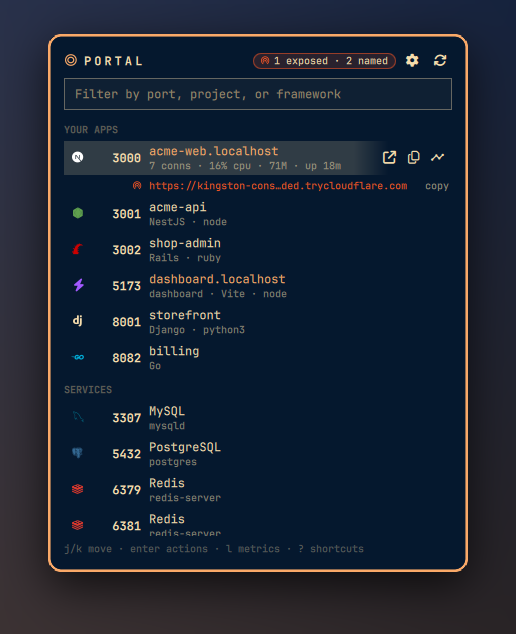
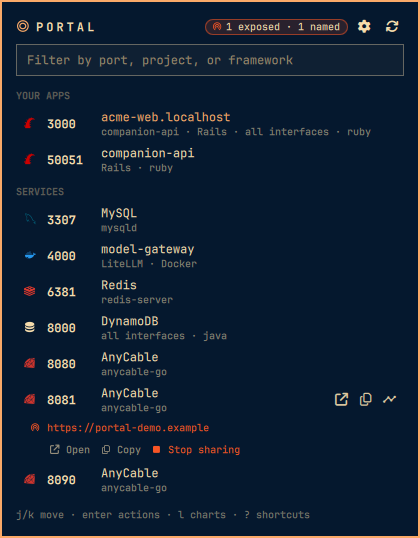
chore(portal): prepare directory review

diff --git a/PortalPanel.qml b/PortalPanel.qml
@@ -516,12 +516,7 @@ Panel {
   }
 
   function activateVerbById(entry, id) {
-    if (id === "share" && entry && service && service.publicTunnelFor(entry.port)) {
-      activateVerb(entry, { id: id })
-      return
-    }
-    var vs = verbsFor(entry)
-    for (var i = 0; i < vs.length; i++) if (vs[i].id === id) { activateVerb(entry, vs[i]); return }
+    activateVerb(entry, { id: id })
   }
 
   function activateVerbAtCursor() {
@@ -1342,7 +1337,7 @@ Panel {
                     { k: "l  ·  h / esc", d: "charts · back" },
                     { k: "type  or  /", d: "filter the list" },
                     { k: "o  ·  c", d: "open in browser · copy URL" },
-                    { k: "n  ·  s", d: "local name · share / stop sharing" },
+                    { k: "n  ·  s", d: "name · toggle sharing" },
                     { k: "w", d: "watch — persist metrics to disk" },
                     { k: "p  ·  r", d: "pause / resume · restart (dev)" },
                     { k: "x  ·  R", d: "stop process · rescan now" },

diff --git a/docs/submission.md b/docs/submission.md
@@ -1,0 +1,56 @@
+# Directory review notes
+
+The original [Portal submission](https://github.com/omacom/omarchy-plugin-marketplace/issues/4308)
+is still open. Its last maintainer review evaluated `d15f73b`. The changes below
+are present in merged commit `ad9ac95`, with documentation and action-dispatch
+cleanup on top. Ask the directory to validate the final published commit.
+
+## Previous review points
+
+| Review point | Current implementation | Repeatable checks |
+|---|---|---|
+| State file path swaps and durability | `scripts/lib/statedir.py` walks verified directories, opens leaves with no-follow checks, and publishes exclusive temporary files with descriptor-relative rename and fsync. `files.sh` delegates state operations to it. | `bash test/scripts.test.sh`, `bash test/state-mode.test.sh`, `bash test/state-inspect.test.sh` |
+| Certificate bytes changing between verification and import | `portless-setup.sh` snapshots the CA into `CA_PEM`, verifies the proxy certificate against those bytes, then verifies the opened import descriptor's fingerprint before passing that descriptor to certutil. Trust records support removal without deleting a replacement certificate. | `bash test/portless-trust.test.sh`, `bash test/scripts.test.sh` |
+| Unbounded QML subprocess output | `Service.runScript` uses `proc.py run` with an output ceiling and deadline. The supervisor discards incomplete output and terminates the process group and reaps its child. The scanner separately caps fields and rejects more than 512 listener ports. | `bash test/scripts.test.sh`, `bash test/proc-cancel.test.sh`, `bash test/lifecycle-cap.test.sh` |
+| Stale process identity during lifecycle actions | The scan carries PID and kernel start time. Lifecycle actions recheck exclusive port ownership and signal through a pidfd. Restart validates captured argv, environment, and the replacement listener's session. | `bash test/lifecycle-owner.test.sh`, `bash test/restart-boundaries.test.sh`, `bash test/restart-env.test.sh`, `bash test/restart-deadline.test.sh` |
+| Installing through replaceable paths | The Cloudflared installer checks the pinned digest and ELF header through an opened download descriptor. `state create` publishes into the verified destination directory and refuses an existing target. | `bash test/provider-install.test.sh` |
+| Restart argument transport and mutable CI inputs | Restart uses JSON and NUL-separated arguments. CI pins checkout and the Omarchy revision and verifies the downloaded font archive's SHA-256. | `bash test/restart-effect.test.sh`, `bash test/restart-duplicate-env.test.sh`, `.github/workflows/ci.yml` |
+
+These references document how the earlier findings were addressed. They are
+not a security certification. A fresh deep security scan was attempted during
+this preparation round but did not start because its worker required a managed
+filesystem permission profile. That review remains outstanding.
+
+## Corrections to the original submission
+
+- Portal does not run npm or another package manager. Missing Portless setup
+  displays `npm install -g portless` for the user to run.
+- Setup and sharing ask for confirmation in an overlay. Provider setup lives
+  in Settings. Local proxies use port 1355 without sudo by default.
+- The Cloudflared download is not executed to discover its version. The
+  installer reports the release version pinned with its checksums.
+- Runtime requirements include system Python 3 and SQLite. Browser trust also
+  needs certutil and OpenSSL. See the [complete requirements](guide.md#requirements).
+- Watched history uses SQLite and retains up to 48 hours. Unwatching pauses
+  recording and preserves history. There is no legacy storage migration.
+- The repository has multiple reviewed commits. It no longer uses the original
+  single-commit submission history.
+
+## Resubmission material
+
+The root manifest, MIT license, README install and removal commands, preview,
+and guide are present. The guide explains network requests, optional providers,
+process controls, browser trust, and state storage. Screenshot project names and
+public URLs use examples instead of local details.
+
+Run the full gate from the final checkout before requesting another review:
+
+```sh
+omarchy plugin validate "$PWD"
+bash test/test.sh
+bash test/e2e-live.sh
+```
+
+The live suite uses temporary listeners. It checks fixture identity before
+teardown. UI changes additionally require the installed proof described in
+[the contributor guide](../AGENTS.md#installed-plugin-proof).

diff --git a/docs/guide.md b/docs/guide.md
@@ -1,5 +1,8 @@
 # Portal guide
 
+Screenshots show the installed plugin. Example names and public URLs replace
+local project details.
+
 ## The list
 
 <img src="images/list.png" width="480" alt="The port list">
@@ -35,7 +38,8 @@ without changing their bytes. It waits for the original process to exit before
 relaunching and verifies that every listener belongs to the replacement session.
 Startup uses the remaining restart deadline, with time reserved for cleanup if
 the replacement fails to listen.
-A server started through mise, nvm, or a shell hook uses the same launcher.
+Restart preserves the environment captured from the original process. It does
+not rerun shell startup files or version-manager hooks.
 Signals only go to processes you own. Stop, pause, and restart ask first and
 name the process. Resume never asks. Naming and sharing actions appear only
 when their provider tools are available. Keyboard shortcuts follow the same
@@ -105,8 +109,7 @@ and is unavailable without connections. It does not measure database queries or
 WebSocket message handling. HTTP and TCP history stay separate.
 
 History writes are checked and retried. Recording and read failures stay visible
-in the detail footer. History uses SQLite from the first sample. Selecting a
-shorter range never deletes samples.
+in the detail footer. Selecting a shorter range never deletes samples.
 
 ## Local names
 
@@ -257,8 +260,9 @@ repository signatures, install `cloudflared` with `sudo pacman -S cloudflared`.
 [Quickshell requires](https://archlinux.org/packages/extra/x86_64/quickshell/).
 The Arch SQLite package includes the CLI. Portal uses its no-follow open mode
 and does not need a database server or an additional privileged setup step. `node` is needed only for the tests and
-for `scripts/portal` while the shell is down. `portal setup` uses `npm`,
-`certutil` and `openssl` when present. Providers are optional.
+for `scripts/portal` while the shell is down. Browser trust setup uses
+`certutil` and `openssl`. If Portless is missing, setup displays an npm command
+for you to run. Portal never runs npm. Providers are optional.
 
 If `ss` cannot attribute a Node listener, Portal still lists the port. It hides
 process actions and public sharing because it cannot bind them to one process.
@@ -379,7 +383,7 @@ Portal runs unsandboxed inside `omarchy-shell`, like every Omarchy plugin.
   names, strips control characters, and stops root discovery at directories
   you don't own.
 - New metric and tunnel state uses 700/600 modes. Metrics hold only numbers
-  and timestamps and are deleted when a port is unwatched. Tunnel state uses
+  and timestamps. Unwatching pauses recording and preserves saved samples. Tunnel state uses
   `PORTAL_STATE_DIR`, then `$XDG_RUNTIME_DIR/portal`, then `$HOME/.cache/portal`.
   The fallback persists across logouts. Existing state may be readable by
   others, but must be owned by the user and not writable by others. Every

diff --git a/README.md b/README.md
@@ -7,7 +7,7 @@ See what runs on each port, then open, name, share, or manage its process.
 Setup and preferences live in Settings so the homepage stays focused on your services.
 
 <p align="center">
-  <img src="preview.png" width="800" alt="Portal's port list and charts page">
+  <img src="preview.png" width="480" alt="Portal's port list with local naming and public sharing actions">
 </p>
 
 ```sh
@@ -22,10 +22,16 @@ Bind it to a key (pick one that's free in `omarchy menu keybindings --print`):
 o.bind("SUPER + ALT + P", "Portal", "omarchy-shell g3ortega.portal toggle")
 ```
 
-Remove with `scripts/portal uninstall` first (it disables the plugin, stops
-every share and name Portal created, drops the Portless CA from the browser
-stores Portal added it to, deletes cloudflared if it is still Portal's copy,
-and removes Portal's state), then `omarchy plugin remove g3ortega.portal`.
+To remove Portal, run its cleanup command before removing the plugin:
+
+```sh
+~/.config/omarchy/plugins/g3ortega.portal/scripts/portal uninstall
+omarchy plugin remove g3ortega.portal
+```
+
+Cleanup disables the plugin, stops its shares, removes its local names and
+browser trust records, and deletes its state. It removes cloudflared only if
+the installed binary still matches Portal's recorded copy.
 
 Portal probes inferred HTTP services on `localhost` and calls the local Portless proxy
 and ngrok agent. It checks new tunnel hostnames through `1.1.1.1` or
